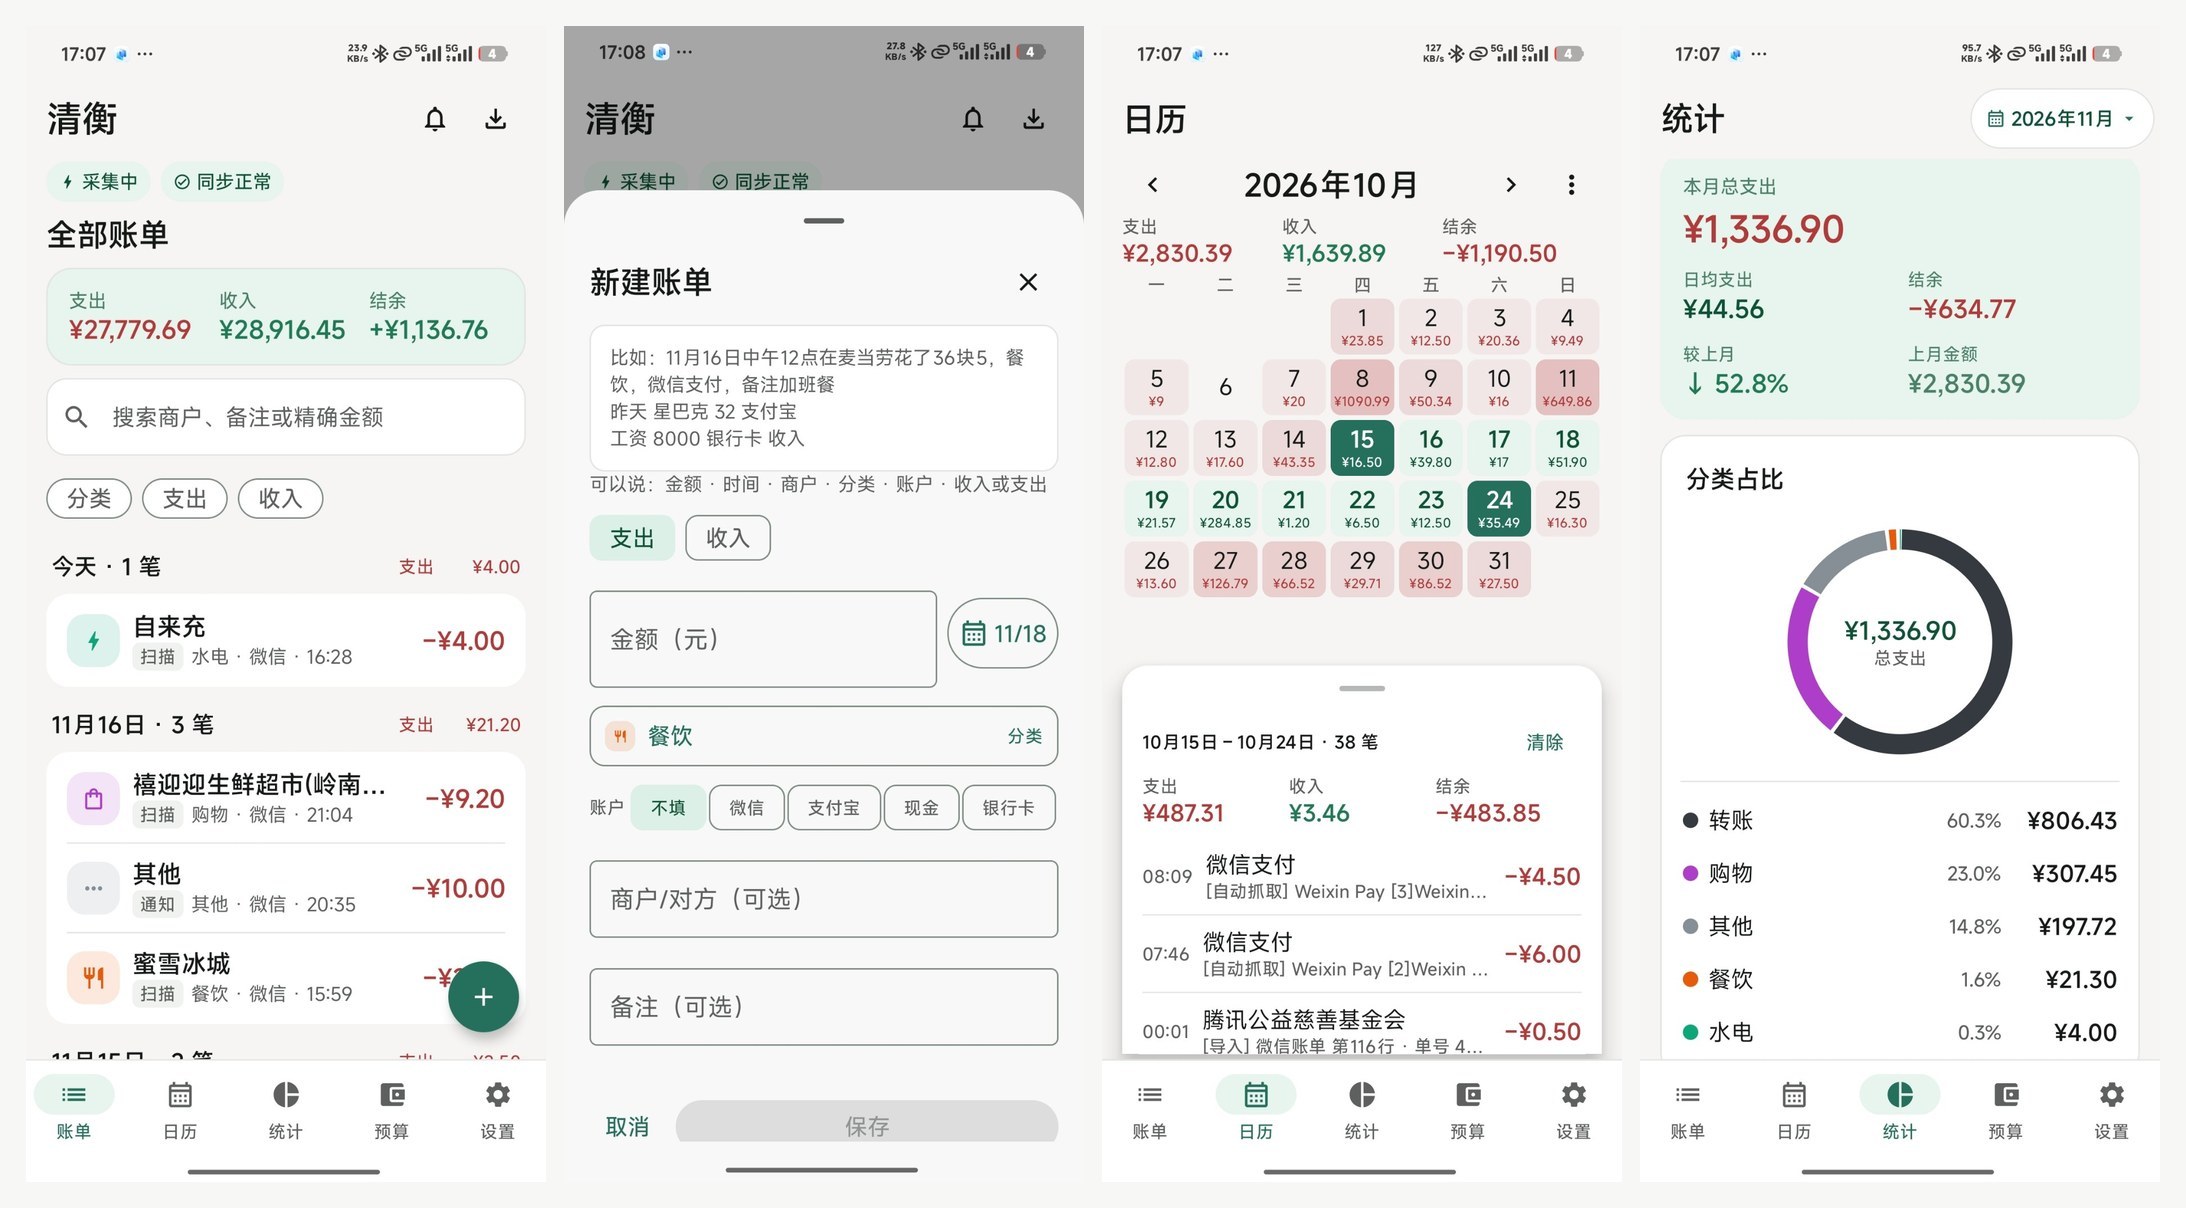
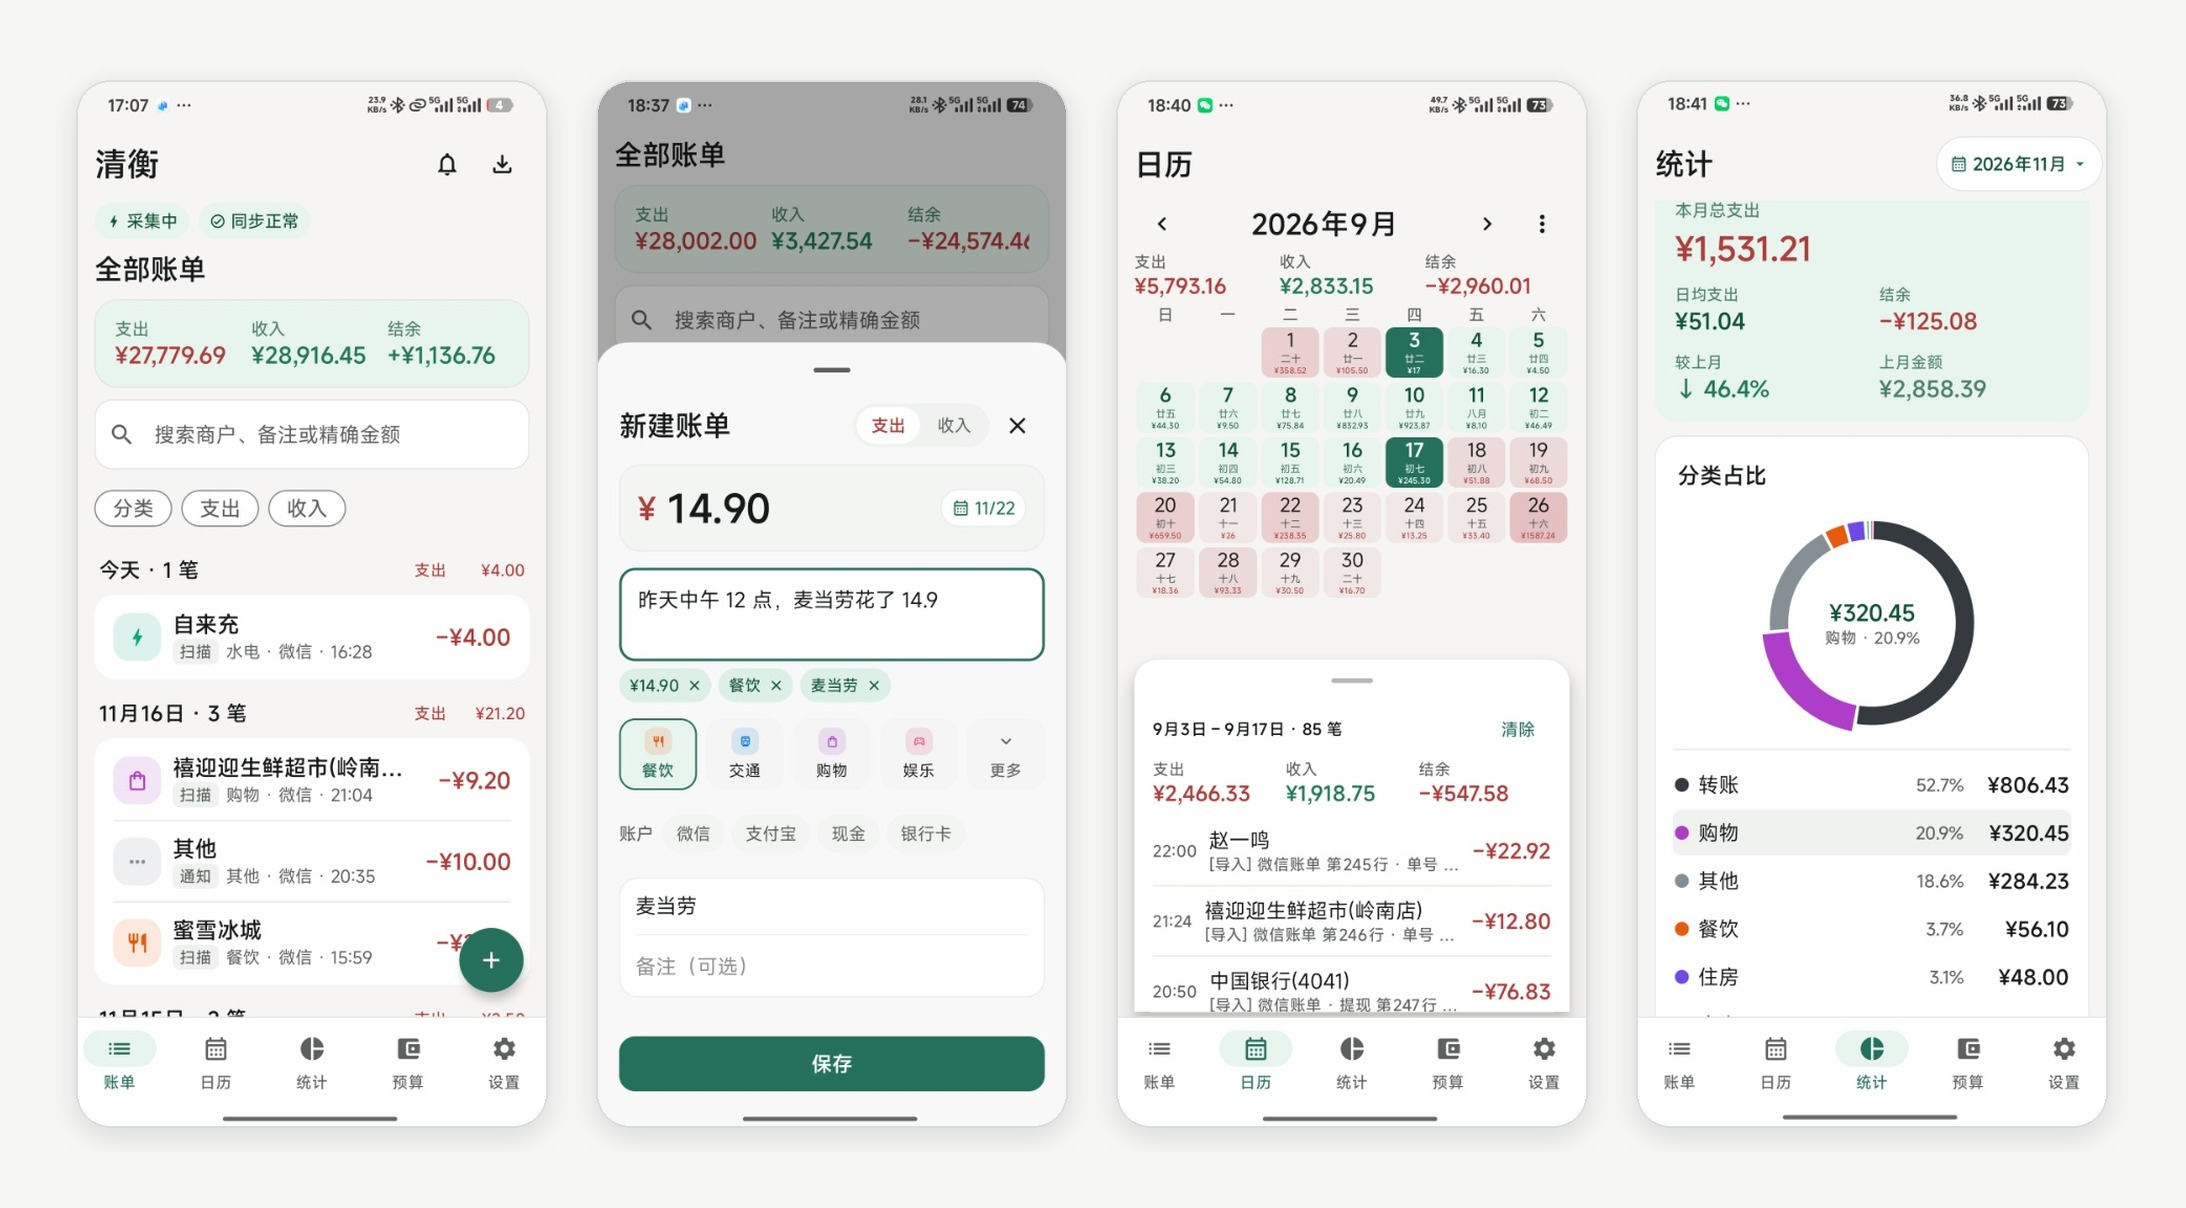
release(android): v1.43 UI polish, adaptive summary text, and updated mobile showcase

diff --git a/android/app/src/test/java/com/bookkeeping/app/update/ReleaseVersionTest.kt b/android/app/src/test/java/com/bookkeeping/app/update/ReleaseVersionTest.kt
@@ -71,11 +71,11 @@ class ReleaseVersionTest {
     @Test fun serverOnlyReleaseWithoutApkMustStillAppear() {
         val current = ReleaseVersion.parse(UpdateVersionPolicy.CURRENT_TAG)!!
         val releases = listOf(
-            release("v1.43-rc.1", true, false, UpdateComponentScope.SERVER_ONLY),
-            release("v1.43-rc.2", true, false, UpdateComponentScope.ANDROID_ONLY),
+            release("v1.44-rc.1", true, false, UpdateComponentScope.SERVER_ONLY),
+            release("v1.44-rc.2", true, false, UpdateComponentScope.ANDROID_ONLY),
         )
         val latest = UpdateVersionPolicy.latestNewer(releases, current, true)
-        assertEquals("v1.43-rc.1", latest?.tag)
+        assertEquals("v1.44-rc.1", latest?.tag)
         assertEquals(UpdateComponentScope.SERVER_ONLY, latest?.componentScope)
         assertNull(UpdateVersionPolicy.latestNewer(releases, current, false))
     }
@@ -85,22 +85,22 @@ class ReleaseVersionTest {
         val releases = listOf(
             release("v1.1.3", false),
             release("v1.2.0-rc.5", true),
-            release("v1.43-rc.1", true, false, UpdateComponentScope.BOTH),
-            release("v1.43-rc.2", true, true, UpdateComponentScope.BOTH),
+            release("v1.44-rc.1", true, false, UpdateComponentScope.BOTH),
+            release("v1.44-rc.2", true, true, UpdateComponentScope.BOTH),
         )
-        assertEquals("v1.43-rc.2",
+        assertEquals("v1.44-rc.2",
             UpdateVersionPolicy.latestNewer(releases, current, true)?.tag)
         assertNull(UpdateVersionPolicy.latestNewer(releases, current, false))
-        assertEquals("v1.43",
+        assertEquals("v1.44",
             UpdateVersionPolicy.latestNewer(
-                releases + release("v1.43", false, true, UpdateComponentScope.ANDROID_ONLY),
+                releases + release("v1.44", false, true, UpdateComponentScope.ANDROID_ONLY),
                 current, false
             )?.tag)
     }
 
     @Test fun legacyUnmarkedReleaseCanBeFoundButScopeMustStayUnknown() {
         val current = ReleaseVersion.parse(UpdateVersionPolicy.CURRENT_TAG)!!
-        val candidate = release("v1.43-rc.1", true, true)
+        val candidate = release("v1.44-rc.1", true, true)
         assertEquals(UpdateComponentScope.UNSPECIFIED,
             UpdateVersionPolicy.latestNewer(listOf(candidate), current, true)?.componentScope)
         assertNull(UpdateVersionPolicy.latestNewer(
@@ -110,19 +110,19 @@ class ReleaseVersionTest {
     @Test fun androidAndServerReleasesCombineIntoBothAcrossMultipleTags() {
         val current = ReleaseVersion.parse(UpdateVersionPolicy.CURRENT_TAG)!!
         val announcements = listOf(
-            release("v1.43-rc.1", true, true, UpdateComponentScope.ANDROID_ONLY),
-            release("v1.43-rc.2", true, false, UpdateComponentScope.SERVER_ONLY),
+            release("v1.44-rc.1", true, true, UpdateComponentScope.ANDROID_ONLY),
+            release("v1.44-rc.2", true, false, UpdateComponentScope.SERVER_ONLY),
         )
         val result = UpdateVersionPolicy.latestNewer(announcements, current, true)
-        assertEquals("v1.43-rc.2", result?.tag)
+        assertEquals("v1.44-rc.2", result?.tag)
         assertEquals(UpdateComponentScope.BOTH, result?.componentScope)
     }
 
     @Test fun unknownLegacyScopePreventsOverconfidentComponentAdvice() {
         val current = ReleaseVersion.parse(UpdateVersionPolicy.CURRENT_TAG)!!
         val announcements = listOf(
-            release("v1.43-rc.1", true, true, UpdateComponentScope.ANDROID_ONLY),
-            release("v1.43-rc.2", true, true, UpdateComponentScope.UNSPECIFIED),
+            release("v1.44-rc.1", true, true, UpdateComponentScope.ANDROID_ONLY),
+            release("v1.44-rc.2", true, true, UpdateComponentScope.UNSPECIFIED),
         )
         assertEquals(UpdateComponentScope.UNSPECIFIED,
             UpdateVersionPolicy.latestNewer(announcements, current, true)?.componentScope)

diff --git a/android/app/src/main/java/com/bookkeeping/app/ui/screen/transactions/LedgerTransactionRow.kt b/android/app/src/main/java/com/bookkeeping/app/ui/screen/transactions/LedgerTransactionRow.kt
@@ -61,7 +61,6 @@ fun LedgerTransactionRow(
     val type = runCatching { TransactionType.valueOf(transaction.type) }
         .getOrDefault(TransactionType.EXPENSE)
     val semantic = LocalQingSemanticColors.current
-    val status = ledgerTransactionStatusLabel(transaction)
     val sourceTag = ledgerTransactionSourceTag(transaction)
     val bringIntoViewRequester = remember(transaction.id) { BringIntoViewRequester() }
     val highlightAlpha = remember(transaction.id) { Animatable(0f) }
@@ -109,26 +108,13 @@ fun LedgerTransactionRow(
             size = 42.dp,
         )
         Column(modifier = Modifier.weight(1f)) {
-            Row(verticalAlignment = Alignment.CenterVertically) {
-                Text(
-                    text = transaction.merchant.ifBlank { tr(category.displayName) },
-                    style = MaterialTheme.typography.titleMedium,
-                    fontWeight = FontWeight.SemiBold,
-                    maxLines = 1,
-                    overflow = TextOverflow.Ellipsis,
-                    modifier = Modifier.weight(1f),
-                )
-                status?.let { (label, color) ->
-                    Text(
-                        text = " · " + label,
-                        style = MaterialTheme.typography.labelSmall,
-                        color = color,
-                        modifier = Modifier.widthIn(max = 104.dp),
-                        maxLines = 1,
-                        overflow = TextOverflow.Ellipsis,
-                    )
-                }
-            }
+            Text(
+                text = transaction.merchant.ifBlank { tr(category.displayName) },
+                style = MaterialTheme.typography.titleMedium,
+                fontWeight = FontWeight.SemiBold,
+                maxLines = 1,
+                overflow = TextOverflow.Ellipsis,
+            )
             Row(
                 verticalAlignment = Alignment.CenterVertically,
                 horizontalArrangement = Arrangement.spacedBy(6.dp),
@@ -160,24 +146,6 @@ fun LedgerTransactionRow(
             color = if (type == TransactionType.INCOME) semantic.income else semantic.expenseText,
             textAlign = TextAlign.End,
         )
-    }
-}
-
-/** 非默认审核状态才有文案；默认（未核实）返回 null，行内不显示。 */
-@Composable
-internal fun ledgerTransactionStatusLabel(transaction: TransactionEntity): Pair<String, Color>? {
-    val semantic = LocalQingSemanticColors.current
-    return when {
-        transaction.duplicateOfId != null ||
-            transaction.remoteReviewStatus == "possible_duplicate" ->
-            tr("待确认重复") to semantic.warningText
-        transaction.remoteReviewStatus == "excluded" ->
-            tr("不计入") to MaterialTheme.colorScheme.onSurfaceVariant
-        transaction.remoteReviewStatus == "refund" -> tr("退款") to semantic.income
-        transaction.remoteReviewStatus == "transfer" ->
-            tr("转账") to MaterialTheme.colorScheme.onSurfaceVariant
-        transaction.remoteReviewStatus == "confirmed" -> tr("已确认") to semantic.income
-        else -> null
     }
 }
 

diff --git a/android/app/src/main/java/com/bookkeeping/app/ui/components/AutoSizeAmountText.kt b/android/app/src/main/java/com/bookkeeping/app/ui/components/AutoSizeAmountText.kt
@@ -2,6 +2,10 @@ package com.bookkeeping.app.ui.components
 
 import androidx.compose.material3.Text
 import androidx.compose.runtime.Composable
+import androidx.compose.runtime.getValue
+import androidx.compose.runtime.mutableFloatStateOf
+import androidx.compose.runtime.remember
+import androidx.compose.runtime.setValue
 import androidx.compose.ui.Modifier
 import androidx.compose.ui.graphics.Color
 import androidx.compose.ui.text.TextStyle
@@ -53,15 +57,24 @@ fun AutoSizeAmountText(
     textAlign: TextAlign? = null,
 ) {
     val base = if (style.fontSize.isSp) style.fontSize.value else 16f
+    val initialSp = AmountTextSizing.fontSizeSp(base, text.length)
+    var fontSizeSp by remember(text, base) { mutableFloatStateOf(initialSp) }
     Text(
         text = text,
         modifier = modifier,
         color = color,
-        style = style.copy(fontSize = AmountTextSizing.fontSizeSp(base, text.length).sp),
+        style = style.copy(fontSize = fontSizeSp.sp),
         fontWeight = fontWeight,
         textAlign = textAlign,
         maxLines = 1,
         softWrap = false,
         overflow = TextOverflow.Clip,
+        onTextLayout = { result ->
+            if ((result.didOverflowWidth || result.hasVisualOverflow) &&
+                fontSizeSp > AmountTextSizing.MIN_FONT_SIZE_SP
+            ) {
+                fontSizeSp = (fontSizeSp - 1f).coerceAtLeast(AmountTextSizing.MIN_FONT_SIZE_SP)
+            }
+        },
     )
 }

diff --git a/android/app/src/main/java/com/bookkeeping/app/ui/components/SummaryCard.kt b/android/app/src/main/java/com/bookkeeping/app/ui/components/SummaryCard.kt
@@ -37,12 +37,12 @@ fun MonthlySummaryCard(
             .clip(RoundedCornerShape(20.dp))
             .background(QingPrimaryContainer)
             .border(1.dp, QingOutline, RoundedCornerShape(20.dp))
-            .padding(horizontal = 18.dp, vertical = 16.dp),
+            .padding(horizontal = 16.dp, vertical = 16.dp),
         verticalArrangement = Arrangement.spacedBy(12.dp),
     ) {
         Row(
             modifier = Modifier.fillMaxWidth(),
-            horizontalArrangement = Arrangement.spacedBy(12.dp),
+            horizontalArrangement = Arrangement.spacedBy(8.dp),
         ) {
             SummaryMetric(
                 label = tr("支出"),
@@ -83,6 +83,7 @@ private fun SummaryMetric(
         AutoSizeAmountText(
             text = value,
             style = com.bookkeeping.app.ui.theme.Typography.titleMedium,
+            modifier = Modifier.fillMaxWidth(),
             fontWeight = FontWeight.Bold,
             color = color,
             textAlign = TextAlign.Start,

diff --git a/docs/V1_43_NOTES.md b/docs/V1_43_NOTES.md
@@ -1,0 +1,18 @@
+<!-- open-margin-components: android -->
+
+# 清衡 1.43
+
+`versionCode 44` / `versionName "1.43"`
+
+## 清衡账单完整往返导入
+
+- 支持直接导入清衡导出的 CSV 账单（`时间,类型,金额（元）,分类,商户,账户,来源,备注`），完整还原原分类、账户、来源与备注
+- 修复导入清衡导出文件时因缺少状态列被误跳过、空商户自动抓取记录报错以及二次导入误标「可补齐」的问题
+
+## 统计与列表体验优化
+
+- 统计页点击「查看某日账单」改为当页直接弹出当日明细弹窗，无需跳转账单页，也不再出现退不出的问题；账单页筛选视图同步补充一键「全部账单」返回入口
+- 顶部汇总卡片（支出 / 收入 / 结余）金额改为按容器宽度自适应缩放，大额数字不再被截断
+- 移除账单列表商户名旁冗余的 `· 转账` 等状态后缀，列表更清爽
+- 重新设计「待确认重复」提示卡片；已忽略截图弹窗支持单条删除、一键清空与点击预览原图
+- 修复账单详情页与编辑页顶部状态栏及摄像头打孔遮挡问题
